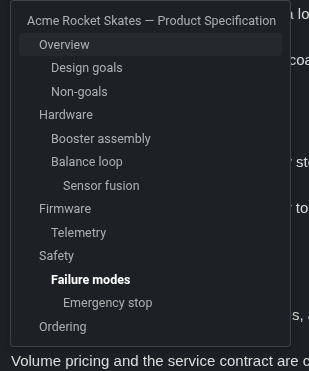
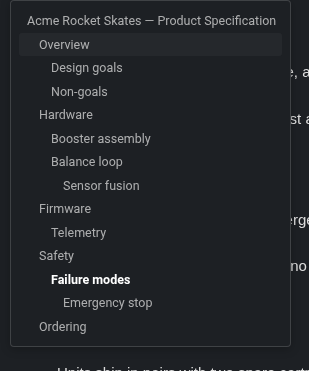
Reshoot showcase screenshots in reserve-margin mode
Seed editorMode:'reserve' + viewerMode:'reserve' in the showcase profile so
the README/manifest shots show the reserved-space look (note text pushed aside
from the strip) rather than the overlay look (text drawn under the bars).
Regenerated docs/images/{minimap-editor,hover-toc-editor,split-view}.png.

diff --git a/e2e/showcase.spec.ts b/e2e/showcase.spec.ts
@@ -138,7 +138,7 @@ test.describe('Ridgeline showcase (dark theme)', () => {
 
     // Throwaway profile, forced to Joplin's built-in DARK theme (Setting.THEME_DARK = 2, verified in
     // the bundled app.asar), inline rendering ON (createProfile default), plugin loaded from ./dist.
-    const profileDir = createProfile(true, { side: 'left', maxDepth: 6 });
+    const profileDir = createProfile(true, { side: 'left', maxDepth: 6, editorMode: 'reserve', viewerMode: 'reserve' });
     const settingsPath = path.join(profileDir, 'settings.json');
     const settings = JSON.parse(fs.readFileSync(settingsPath, 'utf8'));
     // theme is a File-storage setting, but it is only honoured when themeAutoDetect is OFF — otherwise
